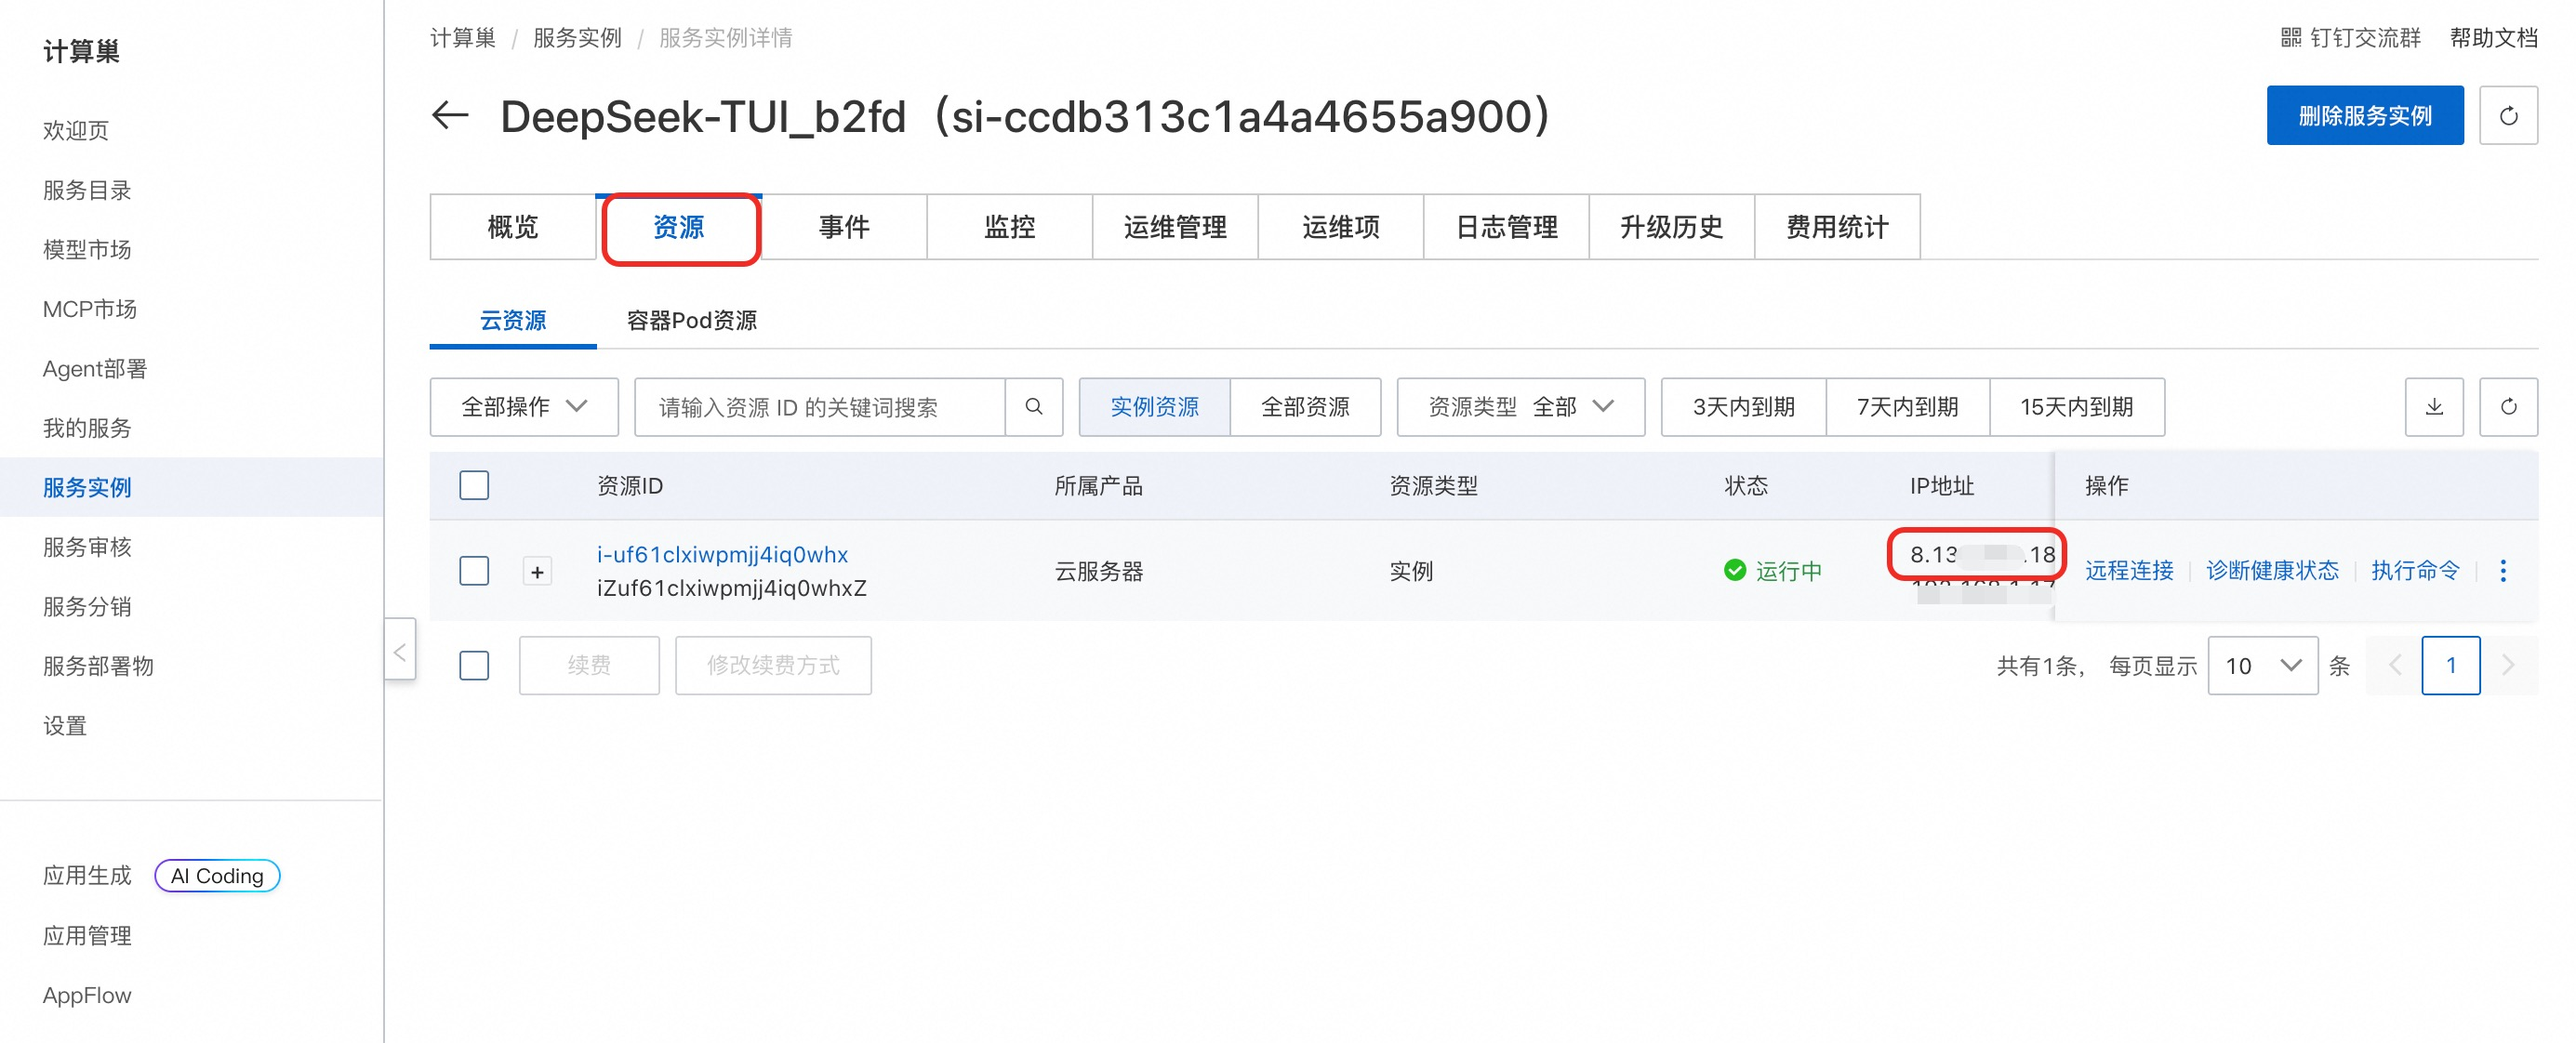
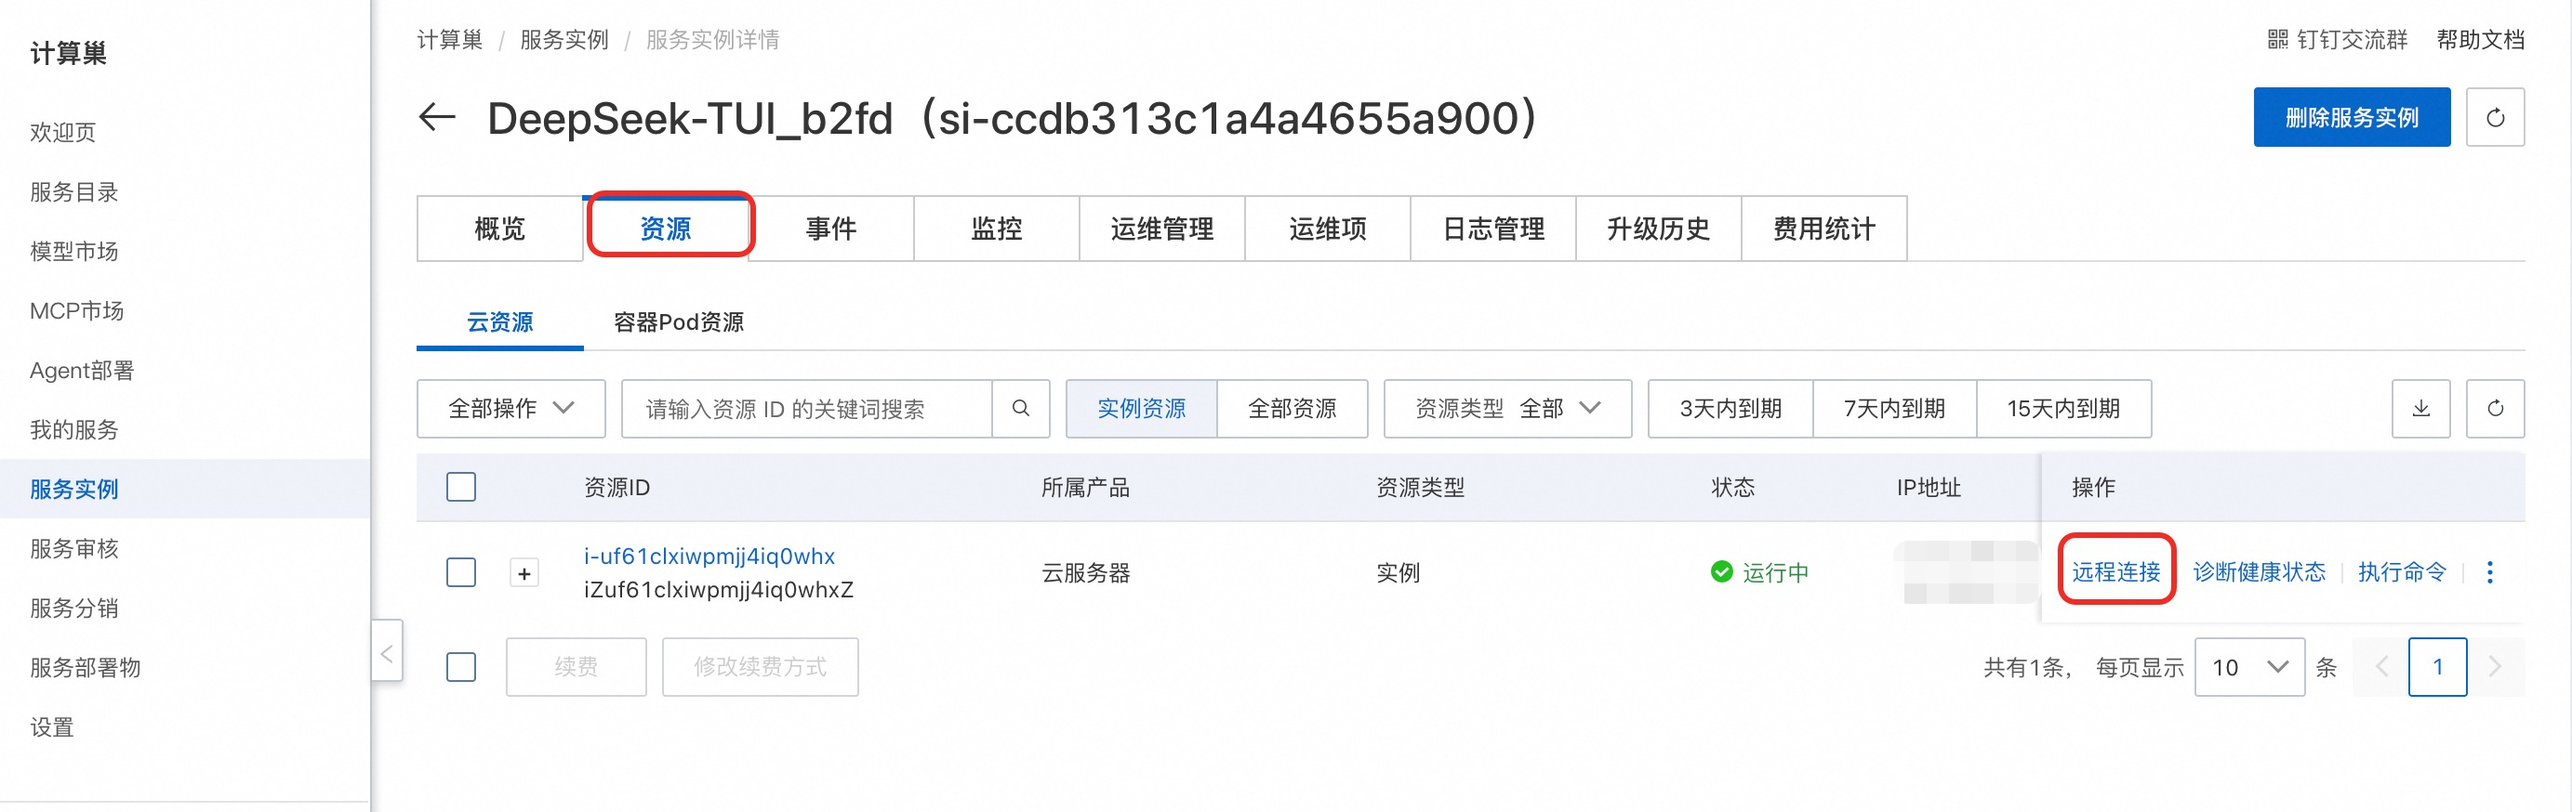
update

diff --git a/docs/index.md b/docs/index.md
@@ -23,22 +23,19 @@ DeepSeek TUI 是一个运行在终端中的 AI 编程智能体（Coding Agent）
 
 2. 确认订单完成后同意服务协议并点击**立即创建**。
 
-3. 等待部署完成后就可以开始使用服务，进入服务实例详情获取公网IP。
+3. 等待部署完成后远程连接服务器。
     ![result.png](2.jpg)
 
-## 使用说明
-
-### 通过 SSH 连接使用
-
-1. 本地电脑使用 SSH 连接到服务器：
+4. 连接后执行以下命令命令启动 TUI 界面：
     ```shell
-    ssh root@<公网IP>
+    sudo su root
+    cd /root
+    tmux 
+    deepseek-tui
     ```
-
-2. 连接后即可直接使用 `deepseek-tui` 命令启动 TUI 界面：
     ![result.png](3.jpg)
 
-3. 进入 TUI 界面后，可以直接输入编程任务：
+5. 进入 TUI 界面后，可以直接输入编程任务：
     ![tui.png](4.jpg)
 
 ## 使用指南
